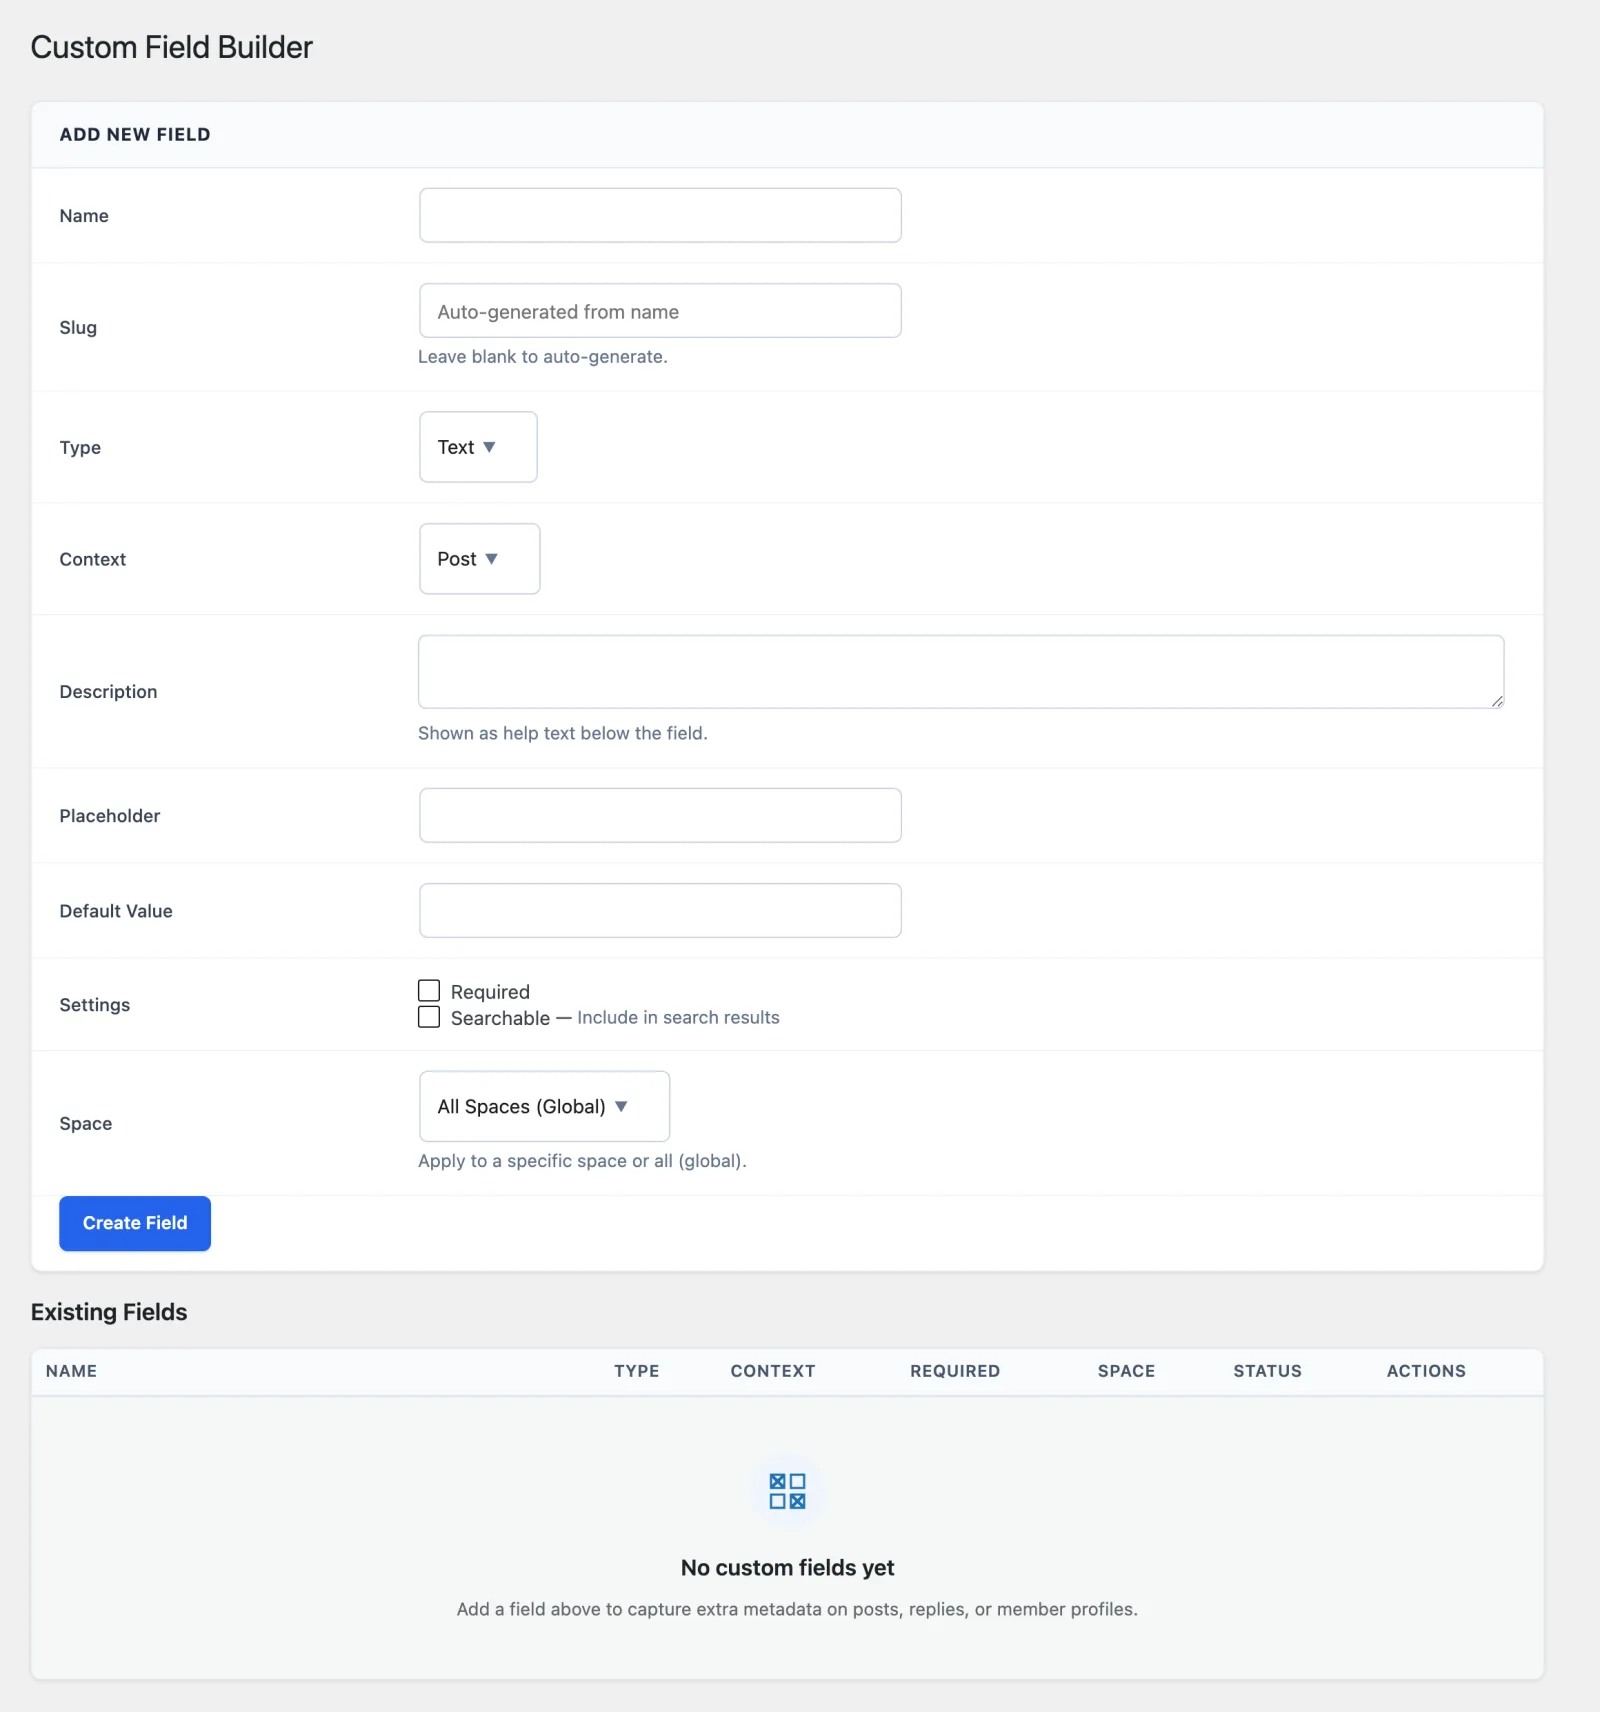
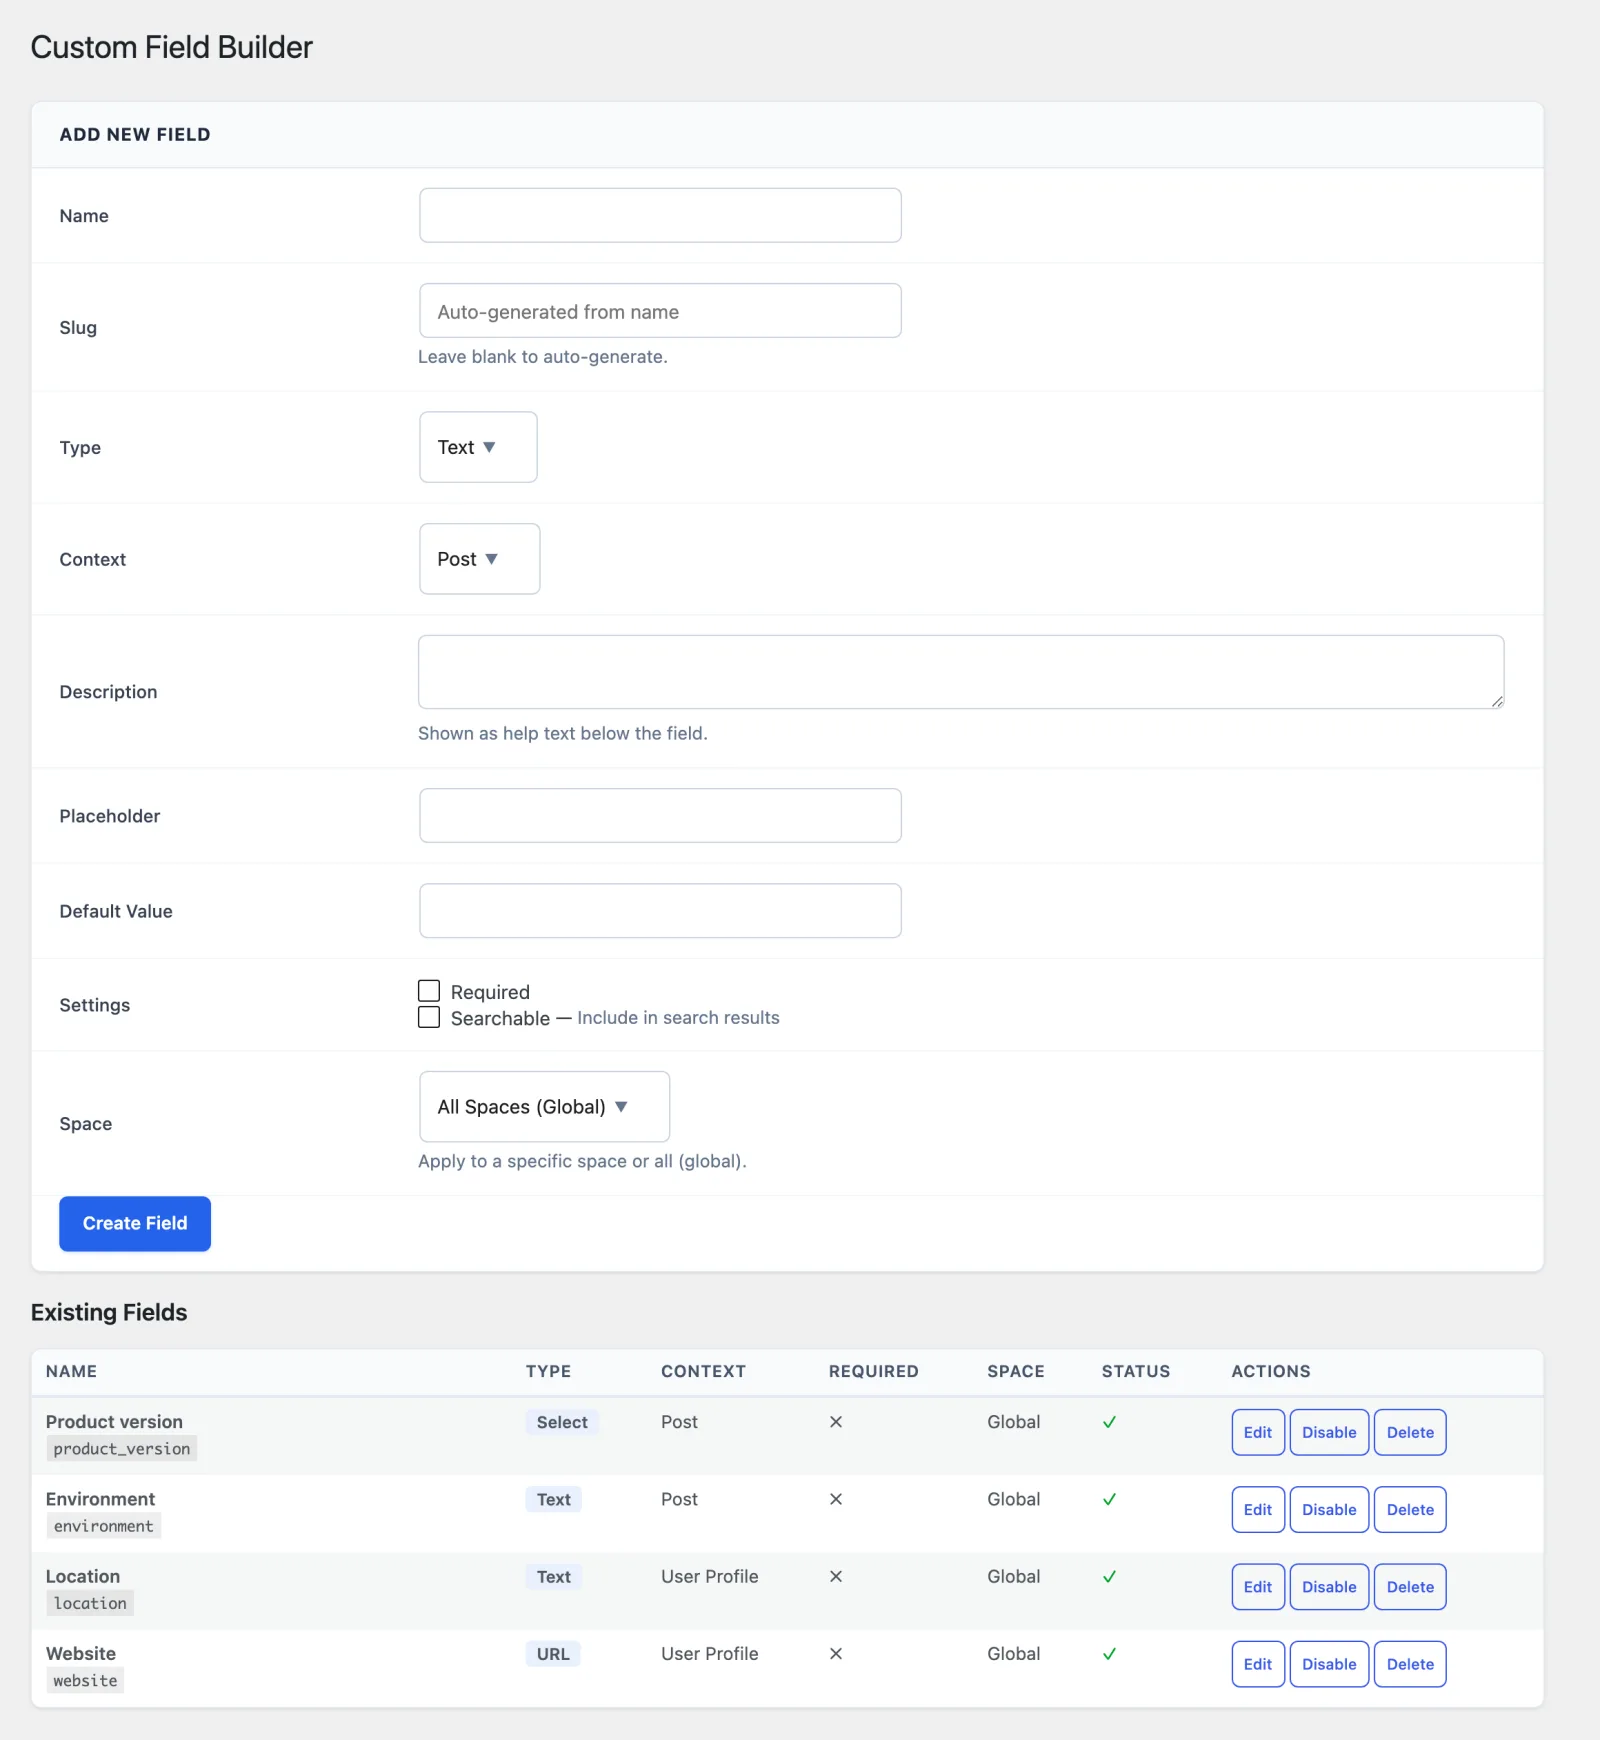
Docs: custom fields, webhooks and analytics with real data (#64)
Custom fields in the builder, on the new topic form and on a member
profile; a registered webhook; analytics with top contributors. The
profile image now also shows earned badges and profile details.

diff --git a/docs/website/pro-features/04-custom-fields.md b/docs/website/pro-features/04-custom-fields.md
@@ -4,7 +4,7 @@ Add structured fields to member profiles - collect the information that matters 
 
 > **PRO** - This feature requires [Jetonomy Pro](https://wbcomdesigns.com/downloads/jetonomy-pro/).
 
-![Custom fields displayed on a member profile page](../images/pro-custom-fields.webp)
+![A member profile with a Profile Details box showing the Location and Website custom fields](../images/pro-custom-fields.webp)
 ## What You Will Learn
 
 - How to create and manage custom profile fields
@@ -40,7 +40,9 @@ A generic WordPress profile has a bio and a website URL. That is not enough for 
 
 4. Click **Save Field**.
 
-![The Custom Field Builder with the Add New Field form: name, slug, type, context, description and required or searchable options](../images/pro-custom-fields-admin.webp)
+![The Custom Field Builder with the Add New Field form and the list of existing fields with their type and context](../images/pro-custom-fields-admin.webp)
+
+![The new topic form with an Additional Fields section: a Product version select and an Environment text field](../images/pro-custom-fields-topic.webp)
 ## Field Types
 
 | Type | Best for |

diff --git a/docs/website/pro-features/06-analytics.md b/docs/website/pro-features/06-analytics.md
@@ -4,7 +4,7 @@ Understand what your community is doing, where it is growing, and who is driving
 
 > **PRO** - This feature requires [Jetonomy Pro](https://wbcomdesigns.com/downloads/jetonomy-pro/).
 
-![Analytics dashboard showing charts and top contributor table](../images/pro-analytics.webp)
+![Community Analytics with post, reply, active user and vote totals, the activity trend, top spaces and top contributors](../images/pro-analytics.webp)
 ## What You Will Learn
 
 - How to access the Analytics dashboard

diff --git a/docs/website/pro-features/09-webhooks.md b/docs/website/pro-features/09-webhooks.md
@@ -2,7 +2,7 @@
 
 Automatically send community events to any external URL - connect Jetonomy to Slack, Zapier, your CRM, or any custom pipeline.
 
-![Webhooks settings with the registered webhooks list and the Add Webhook form with its event checkboxes](../images/pro-webhooks.webp)
+![Webhooks settings with one registered webhook and its events, above the Add Webhook form](../images/pro-webhooks.webp)
 
 > **PRO** - This feature requires [Jetonomy Pro](https://wbcomdesigns.com/downloads/jetonomy-pro/).
 
